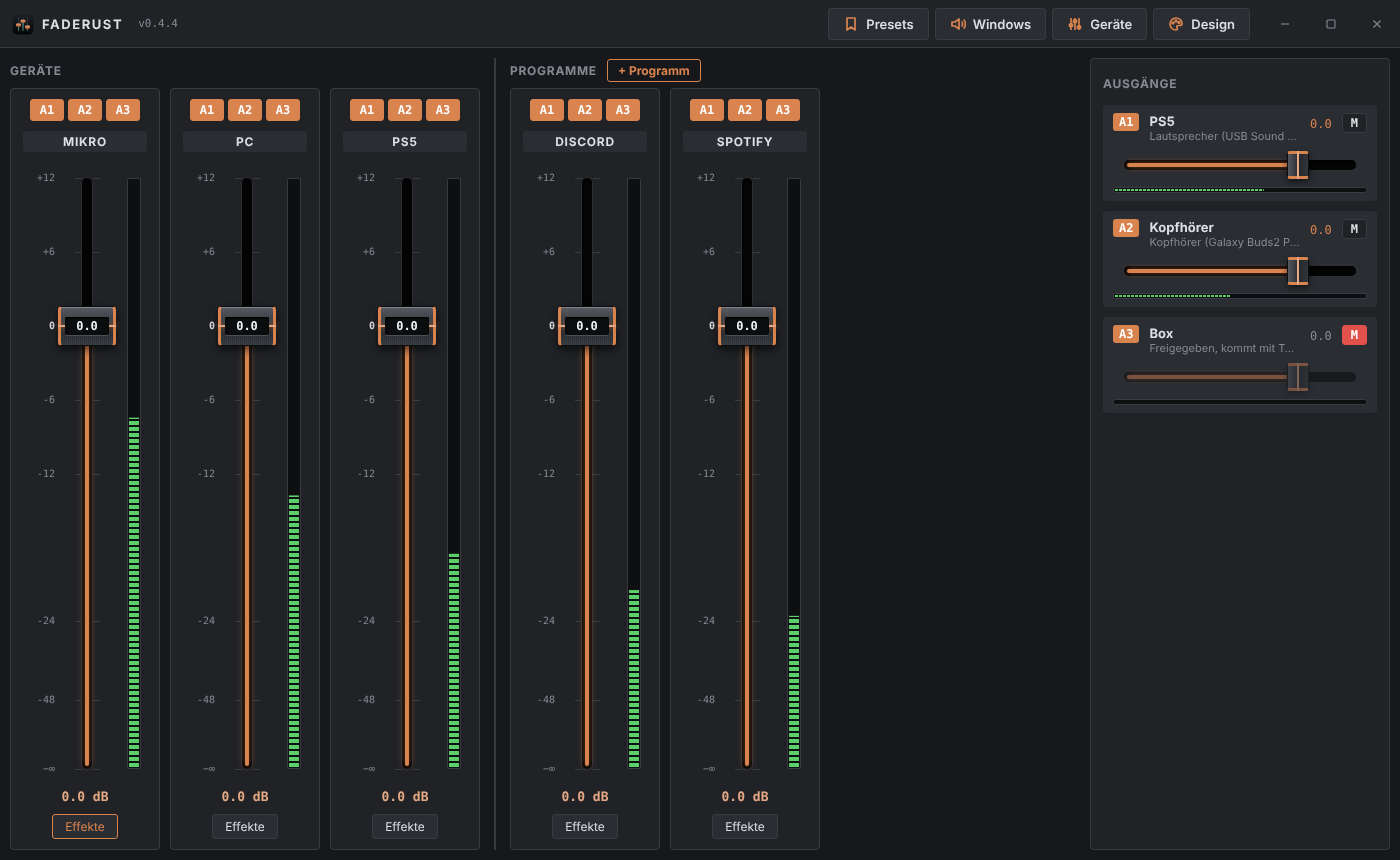
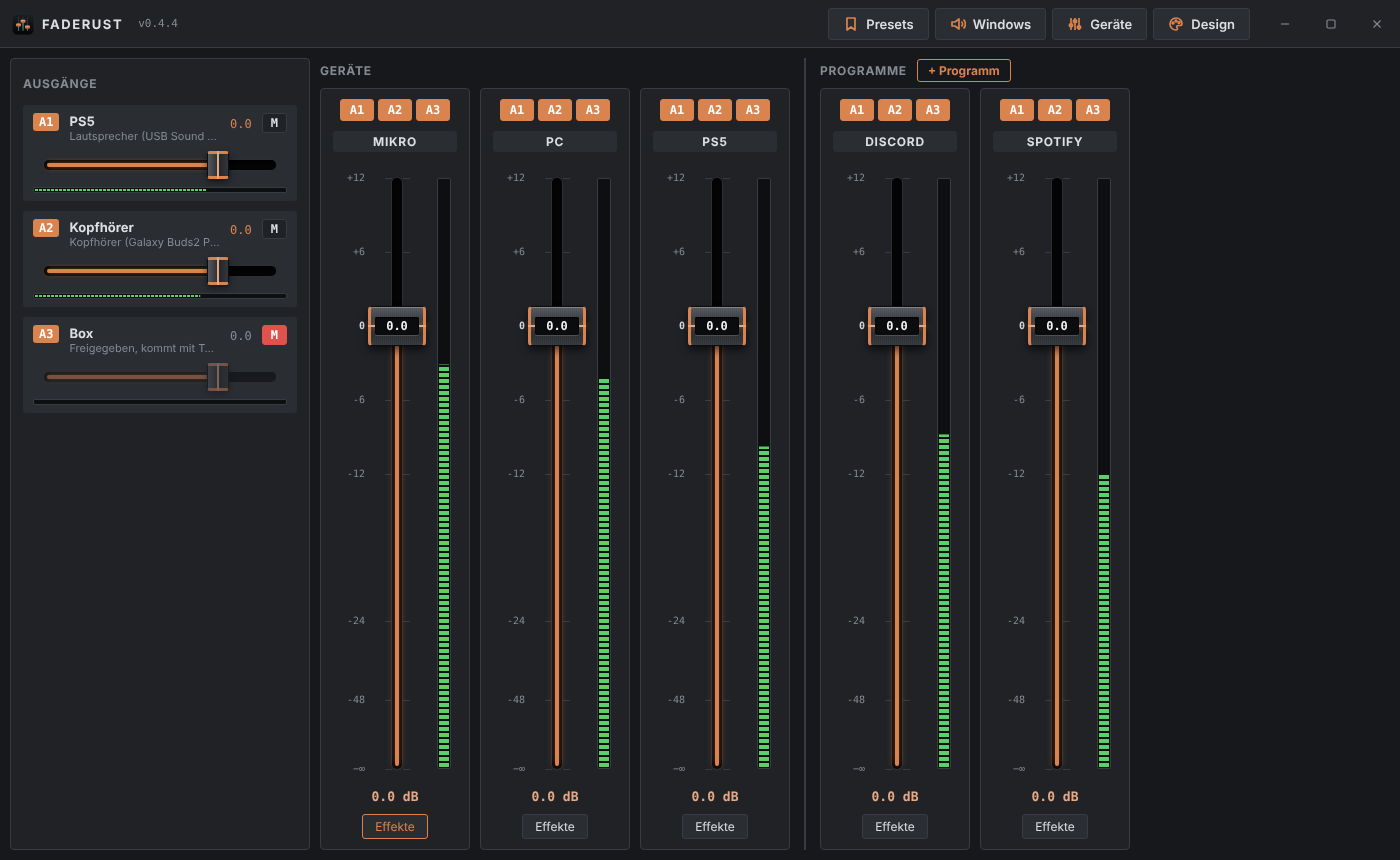
Show the outputs on the left of the desk by default

diff --git a/crates/app/ui/src/lib/StripView.svelte b/crates/app/ui/src/lib/StripView.svelte
@@ -7,10 +7,11 @@
 
   /**
    * Voicemeeter-style desk: one strip per input with buttons for the outputs
-   * it plays on, devices first, then programs. The outputs sit on the right
-   * with a master fader each. Per-output levels live in the matrix.
+   * it plays on, devices first, then programs. The outputs sit at the side
+   * (left unless set otherwise) with a master fader each. Per-output levels
+   * live in the matrix.
    */
-  let { inputs, outputs, gains, lanes, onGain, onMute, onMaster, onMasterMute, onFx, onPrograms } = $props();
+  let { side = "left", inputs, outputs, gains, lanes, onGain, onMute, onMaster, onMasterMute, onFx, onPrograms } = $props();
 
   const isProgram = (input) => input.device.startsWith("app:");
   const devices = $derived(inputs.map((input, i) => ({ input, i })).filter(({ input }) => !isProgram(input)));
@@ -89,7 +90,7 @@
     </div>
   </div>
 
-  <aside class="side panel">
+  <aside class="side panel" class:left={side === "left"}>
     <h2>Ausgänge</h2>
     {#each outputs as output, o}
       {@const m = output.master ?? { db: 0, muted: false }}
@@ -230,6 +231,9 @@
     margin: 0;
     font-size: 12px;
     color: var(--muted);
+  }
+  .side.left {
+    order: -1;
   }
   .side {
     flex: none;

diff --git a/crates/app/ui/src/App.svelte b/crates/app/ui/src/App.svelte
@@ -52,6 +52,24 @@
       // Remembered for this session only.
     }
   }
+  // Where the desk shows the outputs: "left" (default) or "right".
+  const SIDE_KEY = "faderust.outputs";
+  let side = $state(readSide());
+  function readSide() {
+    try {
+      return localStorage.getItem(SIDE_KEY) === "right" ? "right" : "left";
+    } catch {
+      return "left";
+    }
+  }
+  function setSide(v) {
+    side = v;
+    try {
+      localStorage.setItem(SIDE_KEY, v);
+    } catch {
+      // Remembered for this session only.
+    }
+  }
   let version = $state("");
   getVersion().then((v) => (version = v));
 
@@ -241,6 +259,7 @@
         />
       {:else}
         <StripView
+          {side}
           inputs={state.inputs}
           outputs={state.outputs}
           gains={state.gains}
@@ -277,7 +296,7 @@
 {/if}
 
 {#if themeOpen}
-  <Theme {view} onView={setView} onClose={() => (themeOpen = false)} />
+  <Theme {view} onView={setView} {side} onSide={setSide} onClose={() => (themeOpen = false)} />
 {/if}
 
 {#if windowsOpen}

diff --git a/crates/app/ui/src/lib/Theme.svelte b/crates/app/ui/src/lib/Theme.svelte
@@ -2,7 +2,12 @@
   import { ACCENTS, DEFAULT_THEME, MODES, SIGNALS, loadTheme, saveTheme } from "./theme.js";
 
   /** Layout, colours and light/dark; every change shows right away. */
-  let { view, onView, onClose } = $props();
+  let { view, onView, side, onSide, onClose } = $props();
+
+  const SIDES = [
+    { value: "left", name: "Links" },
+    { value: "right", name: "Rechts" },
+  ];
 
   const VIEWS = [
     { value: "strips", name: "Pult", hint: "Ein Streifen pro Eingang" },
@@ -41,6 +46,17 @@
       {/each}
     </div>
   </section>
+
+  {#if view === "strips"}
+    <section>
+      <h3>Ausgänge im Pult</h3>
+      <div class="modes" role="radiogroup" aria-label="Ausgänge im Pult">
+        {#each SIDES as v}
+          <button class:on={side === v.value} role="radio" aria-checked={side === v.value} onclick={() => onSide(v.value)}>{v.name}</button>
+        {/each}
+      </div>
+    </section>
+  {/if}
 
   {#each groups as g}
     {@const custom = !g.list.some((c) => c.color === theme[g.key])}

diff --git a/README.md b/README.md
@@ -19,7 +19,7 @@
 
 ## Was Faderust kann
 
-- **Zwei Ansichten:** das *Pult* im Stil von Voicemeeter (ein Streifen pro Gerät und Programm mit Knöpfen A1–A3, rechts ein Master-Fader pro Ausgang) und die *Matrix*, in der jeder Eingang für jeden Ausgang einzeln geregelt wird. Mikrofon, PC-Ton und Konsole lassen sich so für Kopfhörer, Lautsprecher und Stream getrennt mischen.
+- **Zwei Ansichten:** das *Pult* im Stil von Voicemeeter (ein Streifen pro Gerät und Programm mit Knöpfen A1–A3, links ein Master-Fader pro Ausgang) und die *Matrix*, in der jeder Eingang für jeden Ausgang einzeln geregelt wird. Mikrofon, PC-Ton und Konsole lassen sich so für Kopfhörer, Lautsprecher und Stream getrennt mischen.
 - **Geräte kommen und gehen.** Bluetooth-Kopfhörer aus- und wieder einschalten, USB-Gerät abziehen: Faderust verbindet neu, ohne die anderen Geräte zu unterbrechen.
 - **Gibt Bluetooth-Kopfhörer frei, wenn nichts läuft.** Nach 5 Sekunden Stille schließt Faderust einen Bluetooth-Ausgang, damit die Kopfhörer per Multipoint zum Handy wechseln können. Kommt wieder Ton, öffnet er sich sofort von selbst. Kabel- und USB-Geräte bleiben offen und haben so keine Verzögerung.
 - **Effekte pro Eingang:** Low-Cut, Drei-Band-EQ und Gate, zum Beispiel gegen Tastaturgeräusche am Mikro.

diff --git a/.github/release-notes.md b/.github/release-notes.md
@@ -3,7 +3,7 @@ Testversion für Windows 10/11. Noch nicht auf echter Hardware erprobt, Fehler s
 Neu in 0.4.4:
 
 - Neues **Pult** im Stil von Voicemeeter: ein Streifen pro Gerät und pro Programm (z. B. Discord, Brave), jeweils mit einem Fader und Knöpfen A1, A2, A3 für die Ausgänge. Der Fader verschiebt alle eingeschalteten Ausgänge gemeinsam, ihr Abstand bleibt erhalten
-- **Master-Fader pro Ausgang:** Rechts im Pult hat jeder Ausgang einen Gesamtregler und einen Stumm-Knopf
+- **Master-Fader pro Ausgang:** Links im Pult hat jeder Ausgang einen Gesamtregler und einen Stumm-Knopf (unter „Design“ auch rechts möglich)
 - Neue Ansicht **Matrix**: alle Ein- und Ausgänge als Tabelle, jeder Pegel einzeln einstellbar. Umschalten unter „Design“
 - „+ Programm“ sitzt jetzt direkt im Pult und in der Matrix, der Knopf „Programme“ oben entfällt, ebenso die Windows-Lautstärke-Leiste für Programme
 - Neue Standardfarben: dunkle Darstellung und grüne Pegel (eigene Einstellungen bleiben erhalten)
